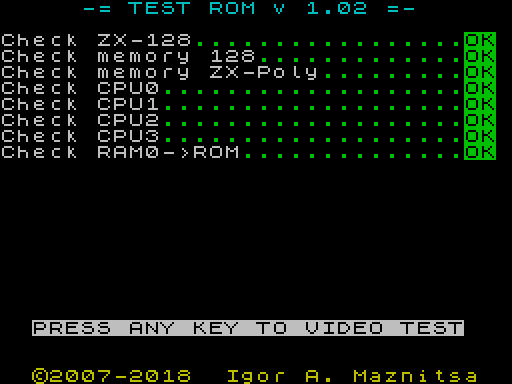
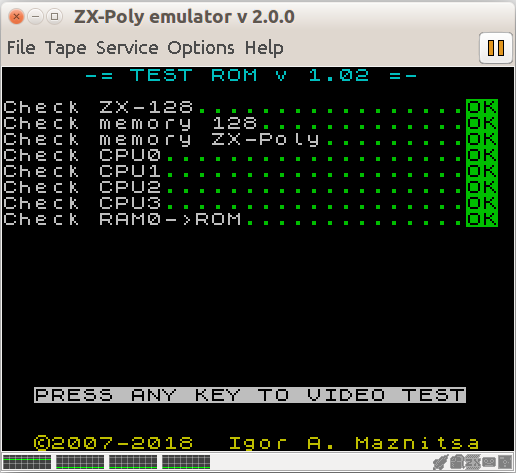
updated

diff --git a/README.md b/README.md
@@ -51,7 +51,7 @@ The Main requirement - the software should not have optimization of graphic outp
 The pre-built versions of the emulator and sprite editor can be downloaded from [the release page](https://github.com/raydac/zxpoly/releases/tag/2.0).   
 The emulator is written in Java and its JAR file can be started just through command line `java -jar zxpoly-emul-2.0-SNAPSHOT.jar`   
 By default it starts embedded ZX-Poly Test ROM image, but it can be replaced by ZX-128 SOS in **File->Options->Active ROM**, the ROM will be downloaded from one of remote network resources.   
-![Test-ROM](/docs/screenshots/zxpoly_test_rom_video.gif)
+![Test-ROM](/docs/screenshots/testromscr1.png)
 
 # Supported videomodes
 ## Standard ZX-Spectrum 256x192 (2 colors per pixel in 8x8 block) (mode 0,1,2,3)
